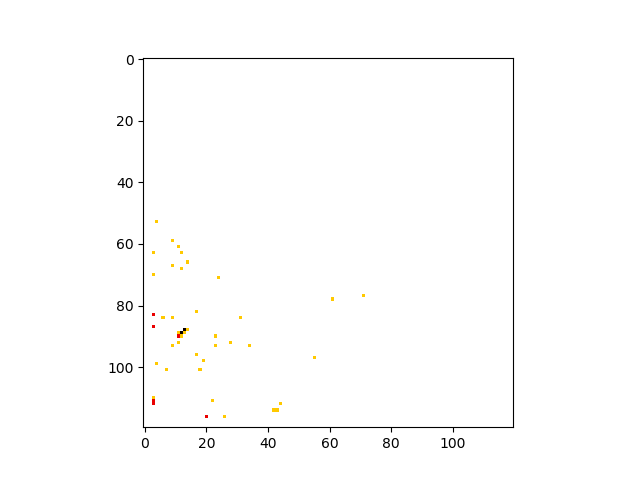
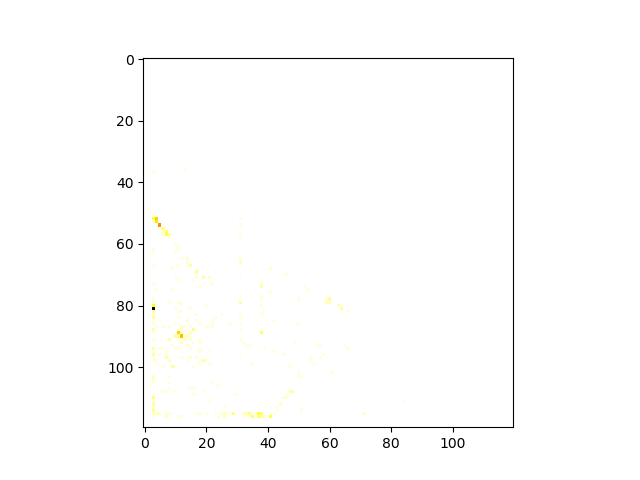
corriger la distribution

diff --git a/arbre_quaternaire.py b/arbre_quaternaire.py
@@ -26,10 +26,10 @@ class Quadtree:
         else:
             self.beta = beta_
     def ajout(self,individu):
-        print("**avant ajouter {} content {} nb_noeud: {} ".format(individu.bd,[i.bd for i in self.content],self.nb_individu_stoke_sous_arbre))
+#        print("**avant ajouter {} content {} nb_noeud: {} ".format(individu.bd,[i.bd for i in self.content],self.nb_individu_stoke_sous_arbre))
         
         if self.nb_individu_stoke_noeud < self.beta:
-            print("self.beta = ",self.beta)
+#            print("self.beta = ",self.beta)
             self.nb_individu_stoke_sous_arbre += 1
             self.content.append(individu)
             individu.profondeur = self.profondeur        
@@ -51,11 +51,11 @@ class Quadtree:
                 self.br = Quadtree((self.x0+self.x1)/2,self.x1,self.y0,(self.y0+self.y1)/2,alpha_=self.alpha_user,beta_=self.beta_user)
                 self.br.profondeur = self.profondeur+1
             self.content.append(individu)
-            print("content apres append ",[i.bd for i in self.content])
-            print("********************************************************************\\n")
+ ##           print("content apres append ",[i.bd for i in self.content])
+  #          print("********************************************************************\\n")
             for individu in self.content:
                 x,y = individu.bd
-                print("***[",x,",",y,"]")
+#                print("***[",x,",",y,"]")
                 # bl
                 if self.bl.x0 <= x and x < self.bl.x1 and self.bl.y0 <= y and y < self.bl.y1:
 #                    print("cond bl verifiee")
@@ -63,7 +63,7 @@ class Quadtree:
                     succes = self.bl.ajout(individu)
                     if succes:
                         self.nb_individu_stoke_sous_arbre += 1
-                    print("self.bl.content apres ",[i.bd for i in self.bl.content])
+#                    print("self.bl.content apres ",[i.bd for i in self.bl.content])
 
 
                 # br
@@ -97,11 +97,11 @@ class Quadtree:
             self.nb_individu_stoke_noeud = 0
             self.beta = 0
             return succes
-            print("apres localisation")
-            print("tl : {} nb_noeud {} nb_sa {}".format([i.bd for i in self.tl.content],self.tl.nb_individu_stoke_noeud,self.tl.nb_individu_stoke_sous_arbre))
-            print("tr : {} nb_noeud {} nb_sa {}".format([i.bd for i in self.tr.content],self.tr.nb_individu_stoke_noeud,self.tr.nb_individu_stoke_sous_arbre))
-            print("bl : {} nb_noeud {} nb_sa {}".format([i.bd for i in self.bl.content],self.bl.nb_individu_stoke_noeud,self.bl.nb_individu_stoke_sous_arbre))
-            print("tl : {} nb_noeud {} nb_sa {}".format([i.bd for i in self.br.content],self.br.nb_individu_stoke_noeud,self.br.nb_individu_stoke_sous_arbre))    
+#            print("apres localisation")
+#            print("tl : {} nb_noeud {} nb_sa {}".format([i.bd for i in self.tl.content],self.tl.nb_individu_stoke_noeud,self.tl.nb_individu_stoke_sous_arbre))
+#            print("tr : {} nb_noeud {} nb_sa {}".format([i.bd for i in self.tr.content],self.tr.nb_individu_stoke_noeud,self.tr.nb_individu_stoke_sous_arbre))
+#            print("bl : {} nb_noeud {} nb_sa {}".format([i.bd for i in self.bl.content],self.bl.nb_individu_stoke_noeud,self.bl.nb_individu_stoke_sous_arbre))
+#            print("tl : {} nb_noeud {} nb_sa {}".format([i.bd for i in self.br.content],self.br.nb_individu_stoke_noeud,self.br.nb_individu_stoke_sous_arbre))    
     def pprint(self):
         for i in self.content:
             print(i.bd)

diff --git a/projet_SHINE_27_nov.py b/projet_SHINE_27_nov.py
@@ -48,7 +48,7 @@ def simulation(env,genotype,display=True):
 
 def choix_a_roulette(population_list, size_pop):
     profondeurs = [ind.profondeur for ind in population_list]
-    distribution = [pow(4,profondeur) for profondeur in profondeurs]
+    distribution = [1/pow(4,profondeur) for profondeur in profondeurs]
     somme = sum(distribution)
     distribution = [i/somme for i in distribution]
     print("population list    ***  ", population_list)
@@ -181,7 +181,7 @@ env = gym.make('FastsimSimpleNavigation-v0')
 but_atteint = False
 #simulation(env,None,True)
 #_,_,_,position_record = es(env,nb_generation=10, size_pop=100,pb_crossover=0.1,pb_mutation=0.9,display=display,verbose=True)
-_,_,_,position_record = es(env,nb_generation=2, size_pop=20,pb_crossover=0.1,pb_mutation=0.9,display=display,verbose=True)
+_,_,_,position_record = es(env,nb_generation=10, size_pop=50,pb_crossover=0.1,pb_mutation=0.9,display=display,verbose=True)
 env.close()
 
 
